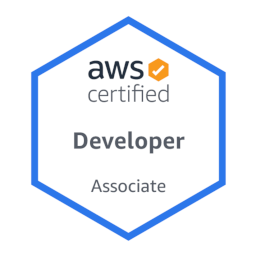
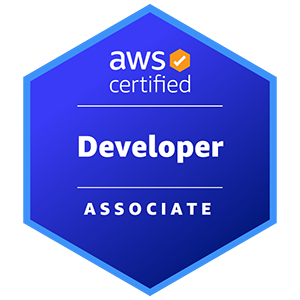
Update blogs certification row

diff --git a/blogs.html b/blogs.html
@@ -150,15 +150,16 @@
           <br>
         <!-- End of Row 2 --> 
 
-          <!-- Row 2 -->
+          <!-- Row 3 -->
             <div class="row">
               <div class="col-sm-4">
                 <div class="card w-100">
                   <div class="card-body">
-                    <img src="./imgs/aws-saa-c02-badge.png" style="width: 18%;">
-                    <h2 class="card-title">AWS Certified Solutions Architect Associate Cheat Sheet</h2>
-                    <p class="card-text" style="text-align: justify;">Your quick guide AWS SAA-C02/C03 Certification Exam</p>
-                    <a target="_blank" href="https://sites.google.com/view/aws-saa-c02-c03-cheat-sheet" class="btn btn-primary float-end">Google Sites</a>                    
+                    <a target="_blank" href="https://sites.google.com/view/aws-saa-c02-c03-cheat-sheet" style="display: block; text-decoration: none; color: inherit;">
+                    <img src="./imgs/aws-saa-c02-badge.png" style="width: 26%;">
+                    <h3 class="card-title">AWS Certified Solutions Architect Associate Cheat Sheet</h3>
+                    <p class="card-text" style="text-align: left;">Your quick guide AWS SAA-C03 Certification Exam</p>
+                    </a>                    
                   </div>
                 </div>
               </div>
@@ -166,37 +167,43 @@
               <div class="col-sm-4">
                 <div class="card w-100">
                   <div class="card-body">
-                    <img src="./imgs/aws-dva-c01-badge.png" style="width: 18%;">
-                    <h2 class="card-title">AWS Certified Developer Associate Cheat Sheet</h2>
-                    <p class="card-text" style="text-align: justify;">Your quick guide AWS DVA-C01 Certification Exam</p>
-                    <a target="_blank" href="https://sites.google.com/view/aws-dva-c01-cheat-sheet" class="btn btn-primary float-end">Google Sites</a>
-                    <a target="_blank" href="https://venkateshk111.github.io/aws-certified-developer-associate-cheat-sheet" class="btn btn-primary float-right">Github Pages</a>
+                    <a target="_blank" href="https://sites.google.com/view/aws-dva-c01-cheat-sheet" style="display: block; text-decoration: none; color: inherit;">
+                    <img src="./imgs/aws-dva-c01-badge.png" style="width: 26%;">
+                    <h3 class="card-title">AWS Certified Developer Associate Cheat Sheet</h3>
+                    <p class="card-text" style="text-align: left;">Your quick guide AWS DVA-C01 Certification Exam</p>
+                    </a>
                   </div>
                 </div>
               </div>
-            </div>
-          <!-- End of Row 2 --> 
+              <div class="col-sm-4">
+                <div class="card">
+                  <div class="card-body">
+                    <a target="_blank" href="https://github.com/venkateshk111/aws-demo" style="display: block; text-decoration: none; color: inherit;">
+                    <img src="./imgs/aws-logo.png" style="width: 26%;">
+                    <img src="./imgs/github-icon-name-1.png" style="width: 30%; float: right;">
+                    <br><br>
+                    <h3 class="card-title">AWS Hands On Labs</h3>
+                    <p class="card-text" style="text-align: left;">Simple demo code for Beginners Covering EC2, EBS, Lambda, S3, ELB and more..</p>
+                    <br>
+                    </a>
+                  </div>
+                </div>
+              </div>
+
+            </div> <!-- End of class row --> 
+          <!-- End of Row 3 --> 
           <br>
 
-          <!-- Row 3 -->
+          <!-- Row 4 -->
           <div class="row">
 
 
-            <div class="col-sm-4">
-              <div class="card">
-                <div class="card-body">
-                  <img src="./imgs/aws-logo.png" style="width: 20%;">
-                  <h2 class="card-title">AWS Hands On Labs</h2>
-                  <p class="card-text" style="text-align: justify;">Simple demo code for Beginners Covering EC2, EBS, Lambda, S3, ELB and more..</p>
-                  <a target="_blank" href="https://github.com/venkateshk111/aws-demo" class="btn btn-primary float-end">GitHub</a>
-                </div>
-              </div>
-            </div>
+
           </div>            
 
-        <!-- End of Row 3 --> 
+        <!-- End of Row 4 --> 
           <br>
-          <!-- Row 4 -->
+          <!-- Row 5 -->
             <div class="row">
               <div class="col-sm-4">
                 <div class="card">
@@ -221,11 +228,11 @@
               </div>
             </div>
             
-          <!-- End of Row 4 -->   
+          <!-- End of Row 5 -->   
           <br>           
 
           <br>
-          <!-- Row 5 -->
+          <!-- Row 6 -->
             <div class="row">
               <div class="col-sm-4">
                 <div class="card">
@@ -252,10 +259,10 @@
             </div>
 
             
-          <!-- End of Row 5 -->   
+          <!-- End of Row 6 -->   
           <br>           
 
-          <!-- Row 6 -->
+          <!-- Row 7 -->
             <div class="row">
               <div class="col-sm-4">
                 <div class="card">
@@ -278,9 +285,9 @@
                 </div>
               </div>
             </div>
-          <!-- End of Row 6 -->
+          <!-- End of Row 7 -->
           <br>
-          <!-- Row 7 -->
+          <!-- Row 8 -->
             <div class="row">
               <div class="col-sm-4">
                 <div class="card">
@@ -308,7 +315,7 @@
 
             </div>
             
-          <!-- End of Row 7 -->
+          <!-- End of Row 8 -->
           </div>
     </section>
 
